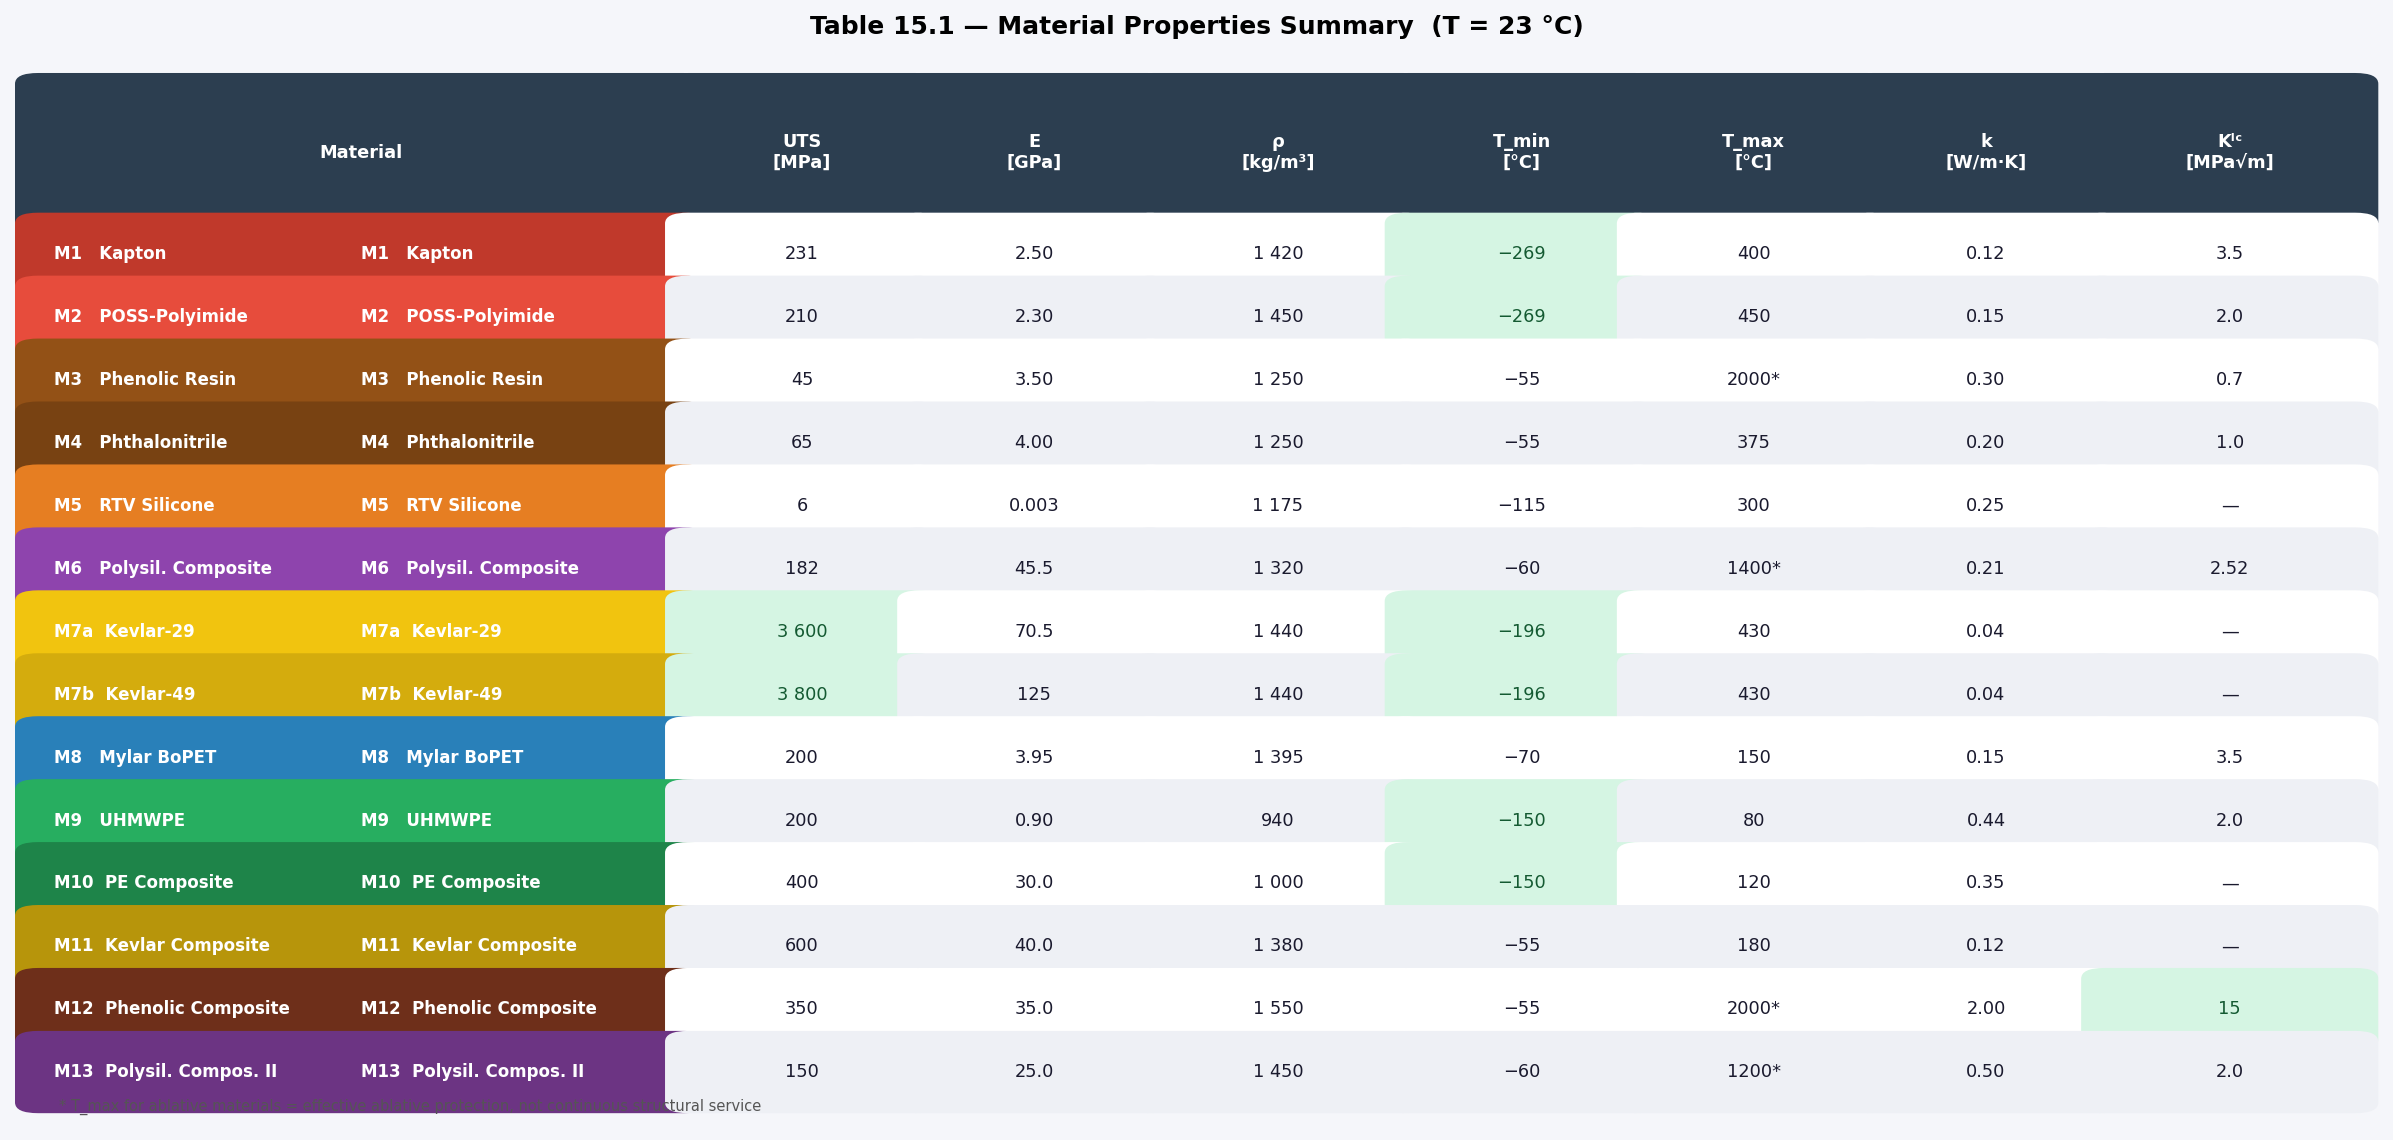
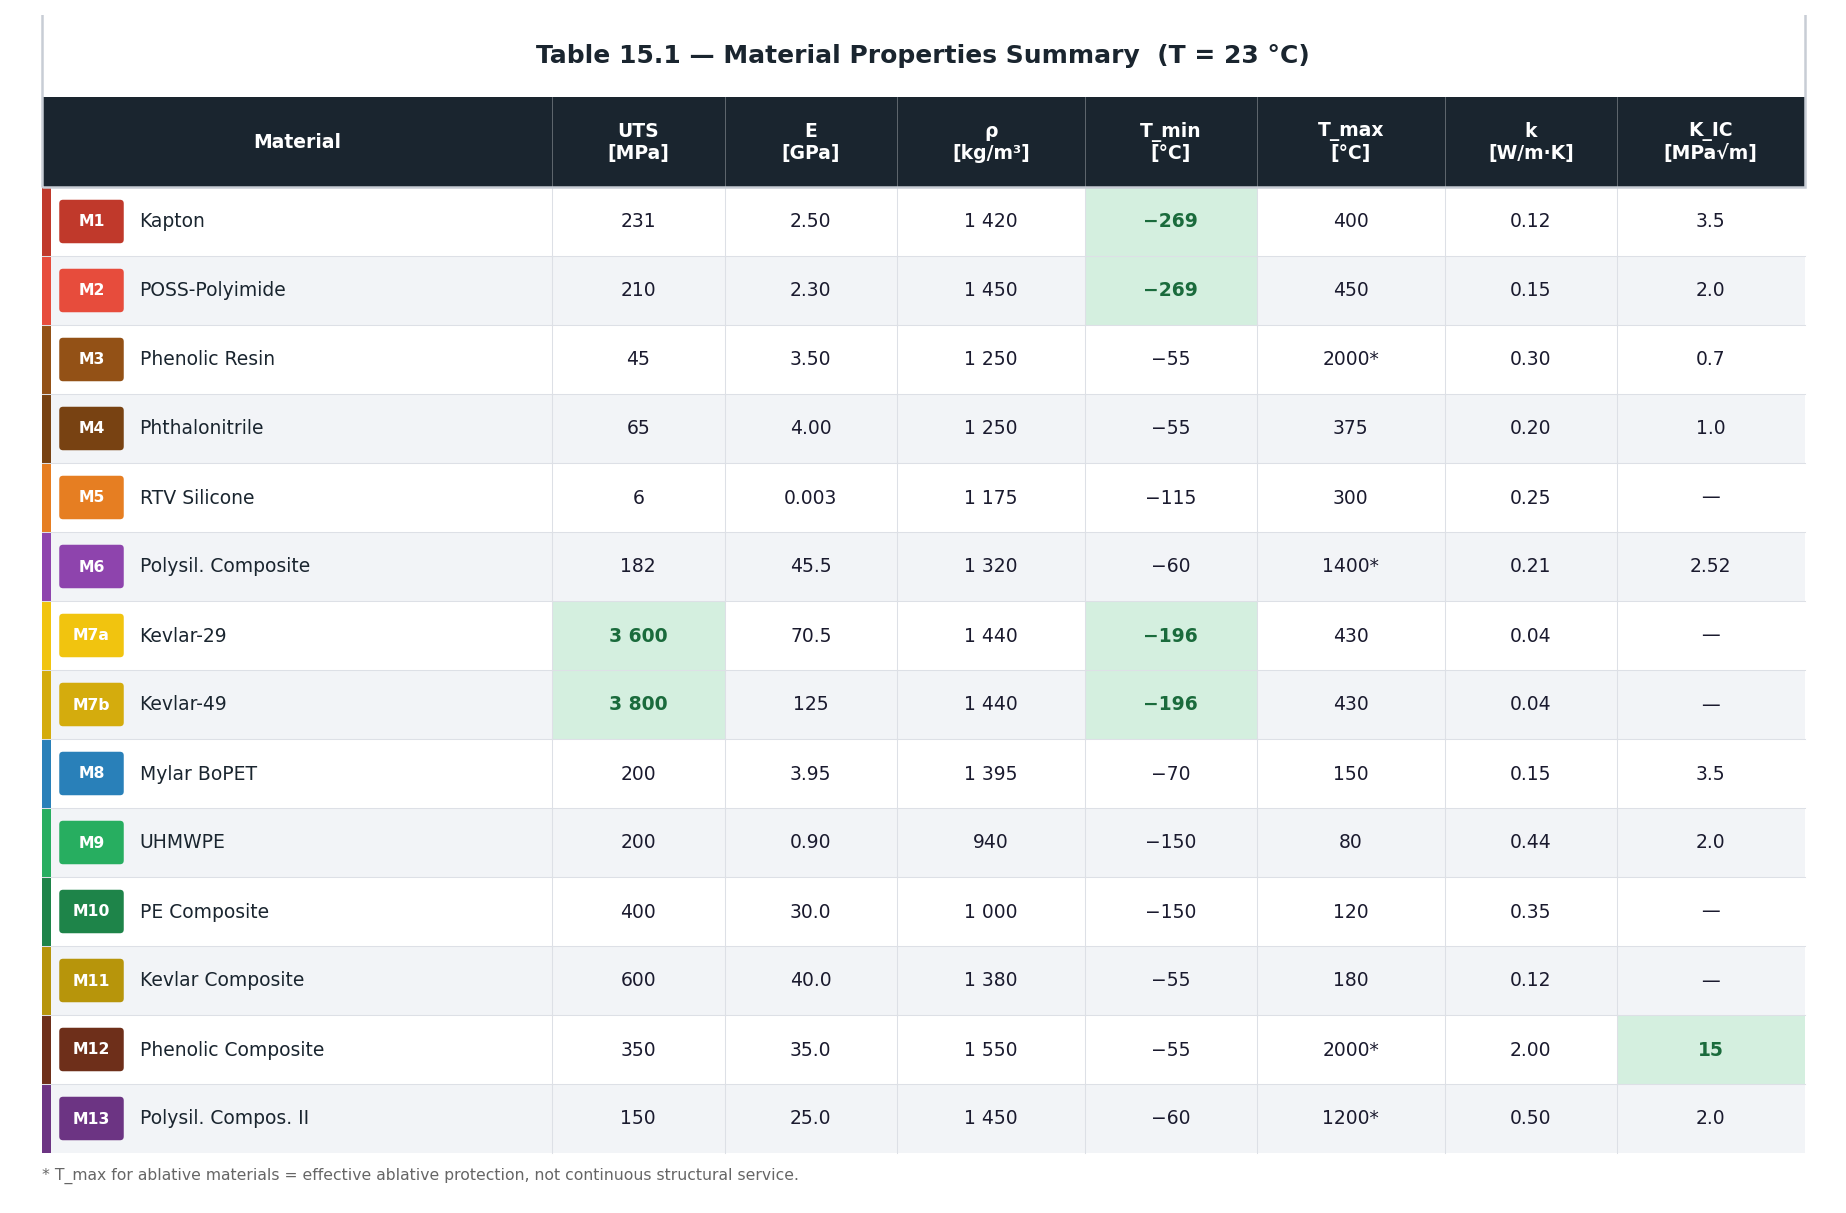
Redesign Table 15.1 graphic for cleaner aesthetics
- Replace FancyBboxPatch axes-transform approach (caused duplicate columns)
  with absolute data-coordinate layout for pixel-perfect cell placement
- Material column: coloured left stripe + rounded code badge (M1, M7a, etc.)
  + material name in dark text — no more white-on-colour full background
- Clean alternating white/#F2F4F7 row stripes, single dark-navy header
- Subtle vertical/horizontal grid lines (#DDE0E6, 0.5 lw)
- Green highlight (#D4EFDF) for extremes: UTS ≥ 3000 MPa, T_min ≤ −196 °C, K_IC ≥ 10
- Outer border, footnote, 150 dpi output

diff --git a/raport_zbiorczy/plots/generate_plots_all.py b/raport_zbiorczy/plots/generate_plots_all.py
@@ -546,28 +546,30 @@ savefig(fig, "compare_F_radar_top5.png")
 # ════════════════════════════════════════════════════════════════
 
 def plot_G_table():
-    """Render Table 15.1 as a styled graphic."""
-    headers = [
-        "Material",
-        "UTS\n[MPa]",
-        "E\n[GPa]",
-        "ρ\n[kg/m³]",
-        "T_min\n[°C]",
-        "T_max\n[°C]",
-        "k\n[W/m·K]",
-        "Kᴵᶜ\n[MPa√m]",
-    ]
+    """Render Table 15.1 as a styled graphic using absolute data coordinates."""
+    import matplotlib.patches as mp
+    import matplotlib.patheffects as pe
 
-    mat_keys  = ["M1","M2","M3","M4","M5","M6","M7a","M7b",
-                 "M8","M9","M10","M11","M12","M13"]
-    mat_names = [
-        "M1   Kapton",           "M2   POSS-Polyimide",
-        "M3   Phenolic Resin",   "M4   Phthalonitrile",
-        "M5   RTV Silicone",     "M6   Polysil. Composite",
-        "M7a  Kevlar-29",        "M7b  Kevlar-49",
-        "M8   Mylar BoPET",      "M9   UHMWPE",
-        "M10  PE Composite",     "M11  Kevlar Composite",
-        "M12  Phenolic Composite","M13  Polysil. Compos. II",
+    headers = ["Material", "UTS\n[MPa]", "E\n[GPa]", "ρ\n[kg/m³]",
+               "T_min\n[°C]", "T_max\n[°C]", "k\n[W/m·K]", "K_IC\n[MPa√m]"]
+
+    mat_keys = ["M1","M2","M3","M4","M5","M6","M7a","M7b",
+                "M8","M9","M10","M11","M12","M13"]
+    mat_labels = [          # (code, full name)
+        ("M1",  "Kapton"),
+        ("M2",  "POSS-Polyimide"),
+        ("M3",  "Phenolic Resin"),
+        ("M4",  "Phthalonitrile"),
+        ("M5",  "RTV Silicone"),
+        ("M6",  "Polysil. Composite"),
+        ("M7a", "Kevlar-29"),
+        ("M7b", "Kevlar-49"),
+        ("M8",  "Mylar BoPET"),
+        ("M9",  "UHMWPE"),
+        ("M10", "PE Composite"),
+        ("M11", "Kevlar Composite"),
+        ("M12", "Phenolic Composite"),
+        ("M13", "Polysil. Compos. II"),
     ]
     data_rows = [
         ["231",   "2.50",  "1 420", "−269", "400",    "0.12", "3.5"],
@@ -587,99 +589,138 @@ def plot_G_table():
     ]
     mat_colors = [MATS[k]["color"] for k in mat_keys]
 
-    n_rows = len(mat_names)
-    n_cols = len(headers)
+    N = len(mat_labels)               # 14 rows
 
-    fig_w = 16
-    fig_h = 0.45 * n_rows + 1.4
-    fig, ax = plt.subplots(figsize=(fig_w, fig_h))
+    # ── Layout constants (in inches) ──────────────────────────────
+    COL_W   = [3.4, 1.15, 1.15, 1.25, 1.15, 1.25, 1.15, 1.25]  # 8 cols, ~11.75"
+    ROW_H   = 0.46    # data row height
+    HDR_H   = 0.60    # header row height
+    PAD_L   = 0.18    # left/right margin
+    PAD_T   = 0.55    # top margin (title space)
+    PAD_B   = 0.30    # bottom margin (footnote)
+    STRIPE  = 0.06    # coloured left-stripe width in material column
+
+    FIG_W   = sum(COL_W) + 2 * PAD_L          # total figure width
+    FIG_H   = PAD_T + HDR_H + N * ROW_H + PAD_B
+
+    fig = plt.figure(figsize=(FIG_W, FIG_H), dpi=150)
+    ax  = fig.add_axes([0, 0, 1, 1])
+    ax.set_xlim(0, FIG_W)
+    ax.set_ylim(0, FIG_H)
     ax.axis("off")
-    fig.patch.set_facecolor("#F5F6FA")
+    fig.patch.set_facecolor("white")
 
-    # Column relative widths (sum = n_cols)
-    col_w = [2.8, 1.0, 1.0, 1.1, 1.0, 1.0, 1.0, 1.1]
-    col_w_norm = [w / sum(col_w) for w in col_w]
+    # Cumulative x positions of column left edges
+    xs = [PAD_L]
+    for w in COL_W[:-1]:
+        xs.append(xs[-1] + w)
+    TABLE_W = sum(COL_W)
 
-    # Row / col geometry in axes units [0,1]
-    header_h = 0.13
-    row_h    = (1.0 - header_h - 0.05) / n_rows
-    y_top    = 0.97
+    # y of top of header row
+    Y_HDR = FIG_H - PAD_T - HDR_H
 
-    def draw_cell(ax, x, y, w, h, text, fc, tc="black",
-                  bold=False, fontsize=8.5, va="center", ha="center"):
-        rect = mpatches.FancyBboxPatch(
-            (x + 0.001, y - h + 0.001), w - 0.002, h - 0.002,
-            boxstyle="round,pad=0.01", linewidth=0,
-            facecolor=fc, transform=ax.transAxes, clip_on=False)
-        ax.add_patch(rect)
-        ax.text(x + w / 2, y - h / 2, text,
-                transform=ax.transAxes,
-                fontsize=fontsize, color=tc,
+    # ── Helper functions ─────────────────────────────────────────
+    def rect(x, y, w, h, fc, ec="none", lw=0.5, zorder=1):
+        ax.add_patch(mp.Rectangle((x, y), w, h,
+                                  facecolor=fc, edgecolor=ec,
+                                  linewidth=lw, zorder=zorder))
+
+    def txt(x, y, s, size=9, color="#1A1A2E", bold=False,
+            ha="center", va="center", wrap=False):
+        ax.text(x, y, s, fontsize=size, color=color,
                 fontweight="bold" if bold else "normal",
-                va=va, ha=ha, clip_on=False)
+                ha=ha, va=va, clip_on=False,
+                multialignment="center")
 
-    # ── Draw header row ──────────────────────────────────────────
-    x = 0.0
-    for j, (hdr, cw) in enumerate(zip(headers, col_w_norm)):
-        draw_cell(ax, x, y_top, cw, header_h, hdr,
-                  fc="#2C3E50", tc="white", bold=True, fontsize=8.5)
-        x += cw
+    # ── Outer border ─────────────────────────────────────────────
+    rect(PAD_L, Y_HDR, TABLE_W, HDR_H + N * ROW_H,
+         fc="none", ec="#C8CDD5", lw=1.2, zorder=4)
 
-    # ── Draw data rows ───────────────────────────────────────────
-    stripe_colors = ["#FFFFFF", "#EEF0F5"]
-    for i, (mname, mcolor, drow) in enumerate(
-            zip(mat_names, mat_colors, data_rows)):
-        y_row = y_top - header_h - i * row_h
-        row_fc = stripe_colors[i % 2]
-
-        x = 0.0
-        # Material name cell
-        draw_cell(ax, x, y_row, col_w_norm[0], row_h, mname,
-                  fc=mcolor, tc="white", bold=True, fontsize=8.0,
-                  ha="left")
-        # Adjust text x slightly for left-aligned name
-        # (redraw with proper x offset)
-        ax.patches[-1].remove()
-        rect = mpatches.FancyBboxPatch(
-            (x + 0.001, y_row - row_h + 0.001),
-            col_w_norm[0] - 0.002, row_h - 0.002,
-            boxstyle="round,pad=0.01", linewidth=0,
-            facecolor=mcolor, transform=ax.transAxes, clip_on=False)
-        ax.add_patch(rect)
-        ax.text(x + 0.008, y_row - row_h / 2, mname,
-                transform=ax.transAxes, fontsize=8.0,
-                color="white", fontweight="bold",
-                va="center", ha="left", clip_on=False)
-        x += col_w_norm[0]
-
-        # Data cells
-        for j, (val, cw) in enumerate(zip(drow, col_w_norm[1:]), 1):
-            is_extreme = (
-                (j == 1 and float(val.replace(" ", "")) >= 3000) or   # high UTS
-                (j == 4 and val.lstrip("-−") != "" and
-                 float(val.replace("−", "-").replace(" ", "")) <= -150) or  # very low T
-                (j == 7 and val not in ("—", "?") and
-                 float(val.replace(" ", "")) >= 10)   # high KIC
-            )
-            cell_fc = row_fc
-            cell_tc = "#1A1A2E"
-            if is_extreme:
-                cell_fc = "#D5F5E3"
-                cell_tc = "#145A32"
-            draw_cell(ax, x, y_row, cw, row_h, val,
-                      fc=cell_fc, tc=cell_tc, fontsize=8.5)
-            x += cw
-
-    # ── Footer note ──────────────────────────────────────────────
-    ax.text(0.01, 0.01,
-            "* T_max for ablative materials = effective ablative protection, "
-            "not continuous structural service",
-            transform=ax.transAxes, fontsize=7, color="#555555",
-            va="bottom", ha="left")
-
-    ax.set_title(
+    # ── Title ────────────────────────────────────────────────────
+    txt(PAD_L + TABLE_W / 2, FIG_H - PAD_T / 2,
         "Table 15.1 — Material Properties Summary  (T = 23 °C)",
-        fontsize=12, fontweight="bold", pad=8)
+        size=12, bold=True, color="#1A252F")
+
+    # ── Header row ───────────────────────────────────────────────
+    rect(PAD_L, Y_HDR, TABLE_W, HDR_H, fc="#1A252F")
+    for j, (hdr, x, w) in enumerate(zip(headers, xs, COL_W)):
+        txt(x + w / 2, Y_HDR + HDR_H / 2, hdr,
+            size=9, color="white", bold=True)
+        # vertical dividers in header
+        if j > 0:
+            ax.plot([x, x], [Y_HDR, Y_HDR + HDR_H],
+                    color="white", lw=0.4, alpha=0.35, zorder=3)
+
+    # ── Data rows ────────────────────────────────────────────────
+    STRIPE_COLORS = ["#FFFFFF", "#F2F4F7"]   # alternating row background
+    GRID_COL      = "#DDE0E6"
+    HILIGHT_BG    = "#D4EFDF"
+    HILIGHT_FG    = "#1A6B3C"
+
+    for i, ((code, name), mcolor, drow) in enumerate(
+            zip(mat_labels, mat_colors, data_rows)):
+        y_bot = Y_HDR - (i + 1) * ROW_H        # bottom of this row
+        y_mid = y_bot + ROW_H / 2
+        row_bg = STRIPE_COLORS[i % 2]
+
+        # full-row background
+        rect(PAD_L, y_bot, TABLE_W, ROW_H, fc=row_bg, zorder=1)
+
+        # coloured left stripe in material column
+        rect(xs[0], y_bot, STRIPE, ROW_H, fc=mcolor, zorder=2)
+
+        # material code badge
+        badge_w, badge_h = 0.38, 0.24
+        badge_x = xs[0] + STRIPE + 0.08
+        badge_y = y_mid - badge_h / 2
+        ax.add_patch(mp.FancyBboxPatch(
+            (badge_x, badge_y), badge_w, badge_h,
+            boxstyle="round,pad=0.025",
+            facecolor=mcolor, edgecolor="none", zorder=3))
+        txt(badge_x + badge_w / 2, y_mid, code,
+            size=7.5, color="white", bold=True)
+
+        # material name text
+        txt(badge_x + badge_w + 0.13, y_mid, name,
+            size=9, color="#1A252F", bold=False, ha="left")
+
+        # data cells
+        for j, (val, x, w) in enumerate(zip(drow, xs[1:], COL_W[1:]), 1):
+            # determine highlight
+            try:
+                num = float(val.replace(" ", "").replace("*", "")
+                               .replace("−", "-"))
+                highlight = (
+                    (j == 1 and num >= 3000) or
+                    (j == 4 and num <= -196) or
+                    (j == 7 and num >= 10)
+                )
+            except ValueError:
+                highlight = False
+
+            cell_fc = HILIGHT_BG if highlight else row_bg
+            cell_tc = HILIGHT_FG if highlight else "#1A1A2E"
+            if highlight:
+                rect(x, y_bot, w, ROW_H, fc=cell_fc, zorder=2)
+            txt(x + w / 2, y_mid, val, size=9,
+                color=cell_tc, bold=highlight)
+
+        # horizontal grid line between rows
+        if i < N - 1:
+            ax.plot([PAD_L, PAD_L + TABLE_W],
+                    [y_bot, y_bot],
+                    color=GRID_COL, lw=0.5, zorder=3)
+
+        # vertical dividers (all columns)
+        for j, x in enumerate(xs[1:], 1):
+            ax.plot([x, x], [y_bot, y_bot + ROW_H],
+                    color=GRID_COL, lw=0.5, zorder=3)
+
+    # ── Footnote ─────────────────────────────────────────────────
+    txt(PAD_L, PAD_B / 2,
+        "* T_max for ablative materials = effective ablative protection, "
+        "not continuous structural service.",
+        size=7.5, color="#666666", ha="left")
 
     savefig(fig, "compare_G_table.png")
 
